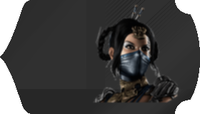
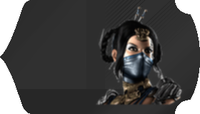
a problem has been fixed about deleting heroes in selectionMenu

Changed region(s): [[0.45, 0.0263, 0.93, 0.9211]]

diff --git a/possible implementation/Grid/Grid.cpp b/possible implementation/Grid/Grid.cpp
@@ -19,12 +19,14 @@ void Grid::SelectionClicked(const sf::Vector2i& pos, PlayerManager* playerManage
 				if (tiles.at(i).at(j)->getGlobalBound().contains(static_cast<sf::Vector2f>(pos)))
 				{
 					// set or remove this tile
-					if (heroCard == heros::none)		// remove
+
+					// remove
+					if (heroCard == heros::none)
 					{
 						if (tiles.at(i).at(j)->IsHeroSpr())
 							clearTileAndHero(tiles.at(i).at(j), playerManager);
 					}
-					else								// set
+					else				// set
 					{
 						// preventing redefining a hero
 						if (!playerManager->playerArr.at(static_cast<us> (playerManager->getTheTurn()))
@@ -45,7 +47,7 @@ void Grid::SelectionClicked(const sf::Vector2i& pos, PlayerManager* playerManage
 						}
 						/*else
 							std::cout << "you can't select a hero twice!!!" << std::endl;
-
+						
 						if (playerManager.playerArr.at(static_cast<us> (playerManager.getTheTurn()))
 							->playerHerosVec.size() == 5)
 						{
@@ -150,12 +152,13 @@ void Grid::clearAllTiles()
 
 void Grid::clearTileAndHero(Tile*& tile ,PlayerManager* playerManager)
 {
-	// graphic side
-	tile->removeHeroSpr();
-
 	// logic side
 	playerManager->playerArr.at(static_cast<us> (playerManager->getTheTurn()))
 		->removeHero(tile->getHeroCardName());
+
+	// graphic side
+	tile->removeHeroSpr();
+
 }
 
 void Grid::setThePlayerHerosVec(PlayerManager* playerManager, heros& heroCard,const sf::Vector2i& pos)

diff --git a/possible implementation/Widget/Widget.cpp b/possible implementation/Widget/Widget.cpp
@@ -6,7 +6,7 @@ Widget::Widget()
 	backgroundRect.setSize(sf::Vector2f(sf::VideoMode::getDesktopMode().width,
 		sf::VideoMode::getDesktopMode().height));
 	backgroundRect.setPosition(sf::Vector2f(0, 0));
-	backgroundRect.setFillColor(sf::Color(0, 0, 0, 25));
+	backgroundRect.setFillColor(sf::Color(0, 0, 0, 75));
 	
 	// message rect
 	backTex.loadFromFile("Widget/messageRect/base.png");
@@ -14,7 +14,7 @@ Widget::Widget()
 	backSpr.setPosition(sf::Vector2f(sf::VideoMode::getDesktopMode().width / 2
 		- backSpr.getGlobalBounds().width / 2 , 300));
 	backSpr.setColor(sf::Color(backSpr.getColor().r, backSpr.getColor().g,
-		backSpr.getColor().b, 180));
+		backSpr.getColor().b, 230));
 
 	// message
 	messageFont.loadFromFile("Font/Button.otf");

diff --git a/possible implementation/Menus/MenuManager.cpp b/possible implementation/Menus/MenuManager.cpp
@@ -5,7 +5,7 @@ using namespace std;
 
 MenuManager::MenuManager()
 {
-	currentMenu = menuType::mainMenu;	// for now
+	currentMenu = menuType::heroSelection;	// for now
 	_currentMenu = currentMenu;
 	menuVec.push_back(&heroSelectionMenu);
 	menuVec.push_back(&battlefield);
